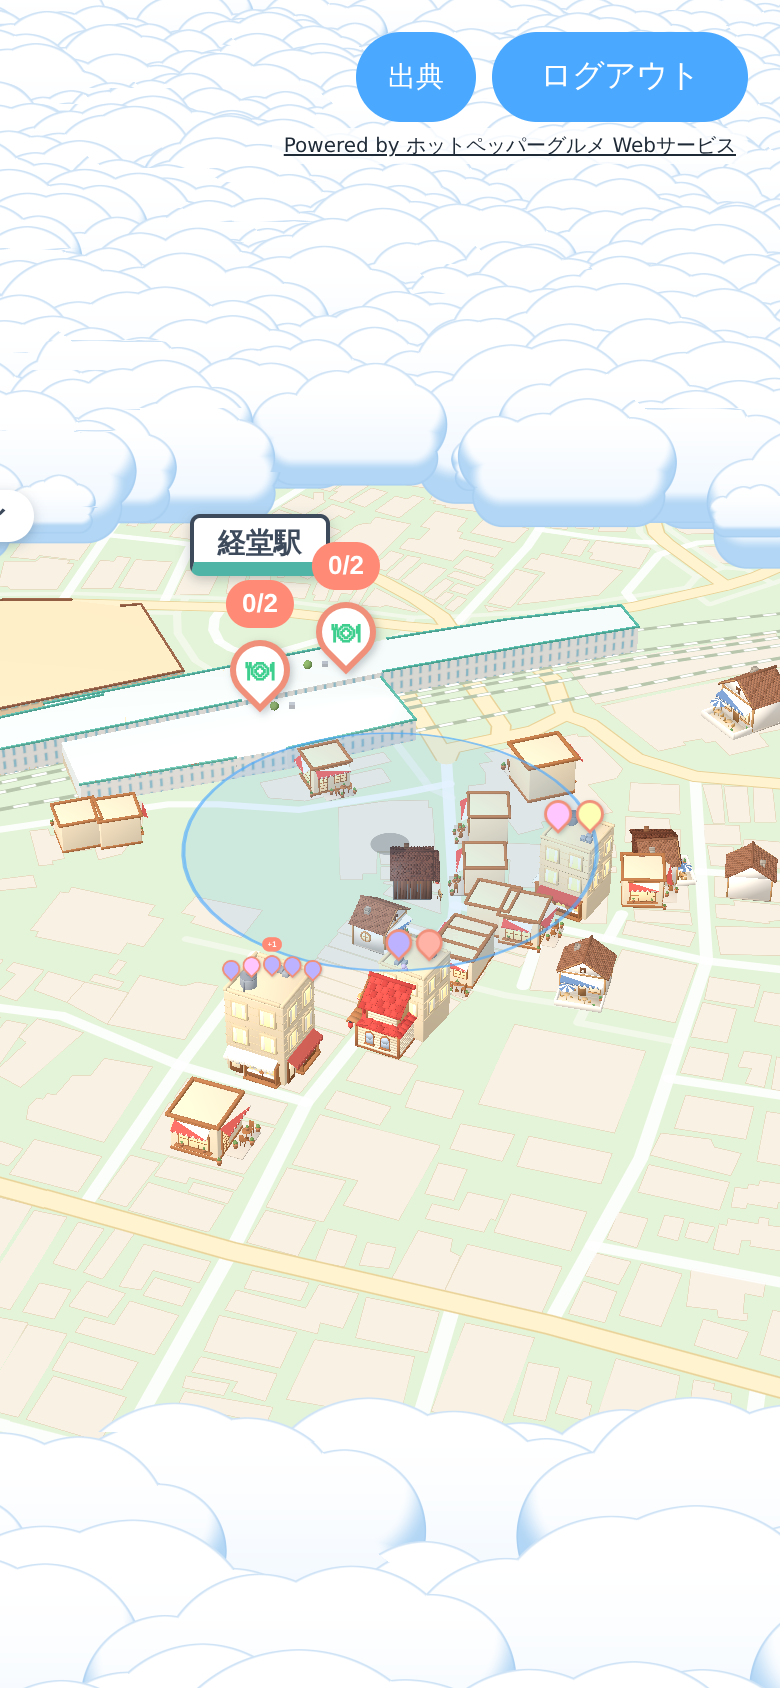
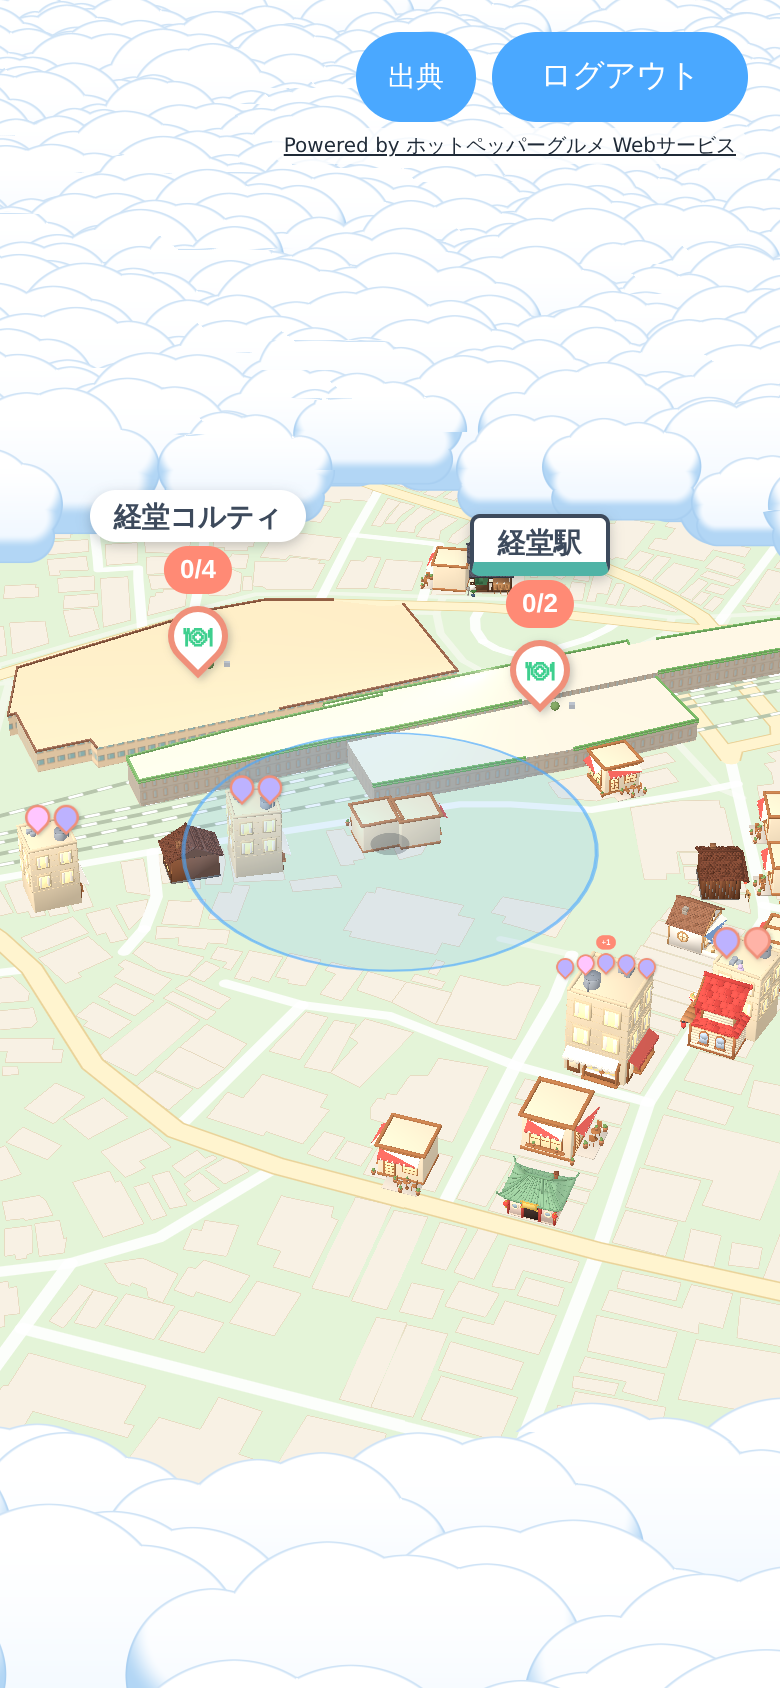
style(shops): station look from Shiro's samples
Claude-Session: https://claude.ai/code/session_01Bp5TxDpu6Cd1eUVq3yDMuP

diff --git a/src/shops/infra/facilityLayer.ts b/src/shops/infra/facilityLayer.ts
@@ -21,10 +21,14 @@ const RED = '#e4745f'
 const BAY_M = 2.5 // 窓1つぶんの横幅
 const RIM_M = 0.5 // 屋根のふちの太さ
 
-// 駅（仮。シロの見本 station-shape が来たら合わせ直す）: 明るいグレーの壁、緑のふち、縦長の窓
-const ST_WALL = '#f4f6f7'
-const ST_ROOF = '#dfe9ee'
-const ST_RIM = '#4fb3a6'
+// 駅（シロの見本 art/reference/shops/station-shape-1〜3）: 明るいグレーの壁、屋根のふちに緑の帯（2段）、
+// 木枠の縦長の窓を等間隔、入口に赤白しまの丸いひさしと丸時計
+const ST_WALL = '#dcd8d1'
+const ST_LEDGE = '#cbc6bd'
+const ST_ROOF = '#ece6da'
+const ST_RIM = '#6faf62'
+const ST_FRAME = '#d39a5c'
+const ST_GLASS = '#bcdfee'
 
 // 窓の帯の絵（1枚 = 横 BAY_M × 縦 1階）。くり返して壁に貼る。駅は縦長の窓
 function wallTexture(station = false): THREE.Texture {
@@ -34,14 +38,23 @@ function wallTexture(station = false): THREE.Texture {
   const g = c.getContext('2d')!
   g.fillStyle = station ? ST_WALL : WALL
   g.fillRect(0, 0, 64, 90)
-  g.fillStyle = station ? '#c9d6dd' : WOOD_L
-  if (station) g.fillRect(22, 14, 20, 62)
-  else g.fillRect(8, 22, 48, 44)
-  g.fillStyle = WINDOW
-  if (station) g.fillRect(25, 17, 14, 56)
-  else g.fillRect(12, 26, 40, 36)
-  g.fillStyle = 'rgba(255,255,255,0.45)'
-  g.fillRect(14, 28, 10, 32)
+  if (station) {
+    g.fillStyle = ST_LEDGE // 階ごとのでっぱり
+    g.fillRect(0, 84, 64, 6)
+    g.fillStyle = ST_FRAME
+    g.fillRect(21, 16, 22, 60)
+    g.fillStyle = ST_GLASS
+    g.fillRect(25, 20, 14, 52)
+    g.fillStyle = 'rgba(255,255,255,0.5)'
+    g.fillRect(27, 22, 4, 46)
+  } else {
+    g.fillStyle = WOOD_L
+    g.fillRect(8, 22, 48, 44)
+    g.fillStyle = WINDOW
+    g.fillRect(12, 26, 40, 36)
+    g.fillStyle = 'rgba(255,255,255,0.45)'
+    g.fillRect(14, 28, 10, 32)
+  }
   const t = new THREE.CanvasTexture(c)
   t.wrapS = THREE.RepeatWrapping
   t.wrapT = THREE.RepeatWrapping
@@ -90,7 +103,7 @@ export function createFacilityLayer(): CustomLayerInterface & {
   let origin: LatLng | null = null
   let objects: THREE.Object3D[] = []
   const geos: THREE.BufferGeometry[] = []
-  type Mats = { wall: THREE.Material; roof: THREE.Material; wood: THREE.Material; awning: THREE.Material; green: THREE.Material; metal: THREE.Material }
+  type Mats = { wall: THREE.Material; roof: THREE.Material; wood: THREE.Material; awning: THREE.Material; green: THREE.Material; metal: THREE.Material; face: THREE.Material; ring: THREE.Material }
   let mats: Mats | null = null
   let stMats: Pick<Mats, 'wall' | 'roof' | 'wood'> | null = null
 
@@ -130,6 +143,13 @@ export function createFacilityLayer(): CustomLayerInterface & {
         box.rotateY(Math.atan2(b.y - a.y, b.x - a.x))
         box.translate((a.x + b.x) / 2, heightM + RIM_M / 2, -(a.y + b.y) / 2)
         rims.push(box)
+        if (f.kind === 'station') {
+          // 駅は緑の帯を2段（見本どおり、少し下にもう1本）
+          const band = new THREE.BoxGeometry(len + RIM_M, RIM_M * 0.6, RIM_M * 1.2)
+          band.rotateY(Math.atan2(b.y - a.y, b.x - a.x))
+          band.translate((a.x + b.x) / 2, heightM - RIM_M * 0.8, -(a.y + b.y) / 2)
+          rims.push(band)
+        }
       }
       if (rims.length) {
         const merged = mergeGeometries(rims)
@@ -140,12 +160,33 @@ export function createFacilityLayer(): CustomLayerInterface & {
       const door = frame.to(f.door)
       const rot = (f.facingDeg * Math.PI) / 180
       const out = { x: Math.sin(rot), y: Math.cos(rot) }
-      const awning = new THREE.BoxGeometry(5, 0.15, 1.6)
-      awning.rotateX(0.35)
-      awning.rotateY(-rot)
-      const c = at({ x: door.x + out.x * 0.8, y: door.y + out.y * 0.8 }, 3.2)
-      awning.translate(c.x, c.y, c.z)
-      add(awning, mats.awning)
+      if (f.kind === 'station') {
+        // 駅: 半円の丸いひさし（赤白しま）と、その上の丸時計。+z（南）向きに作って正面へ回す
+        const turn = Math.atan2(out.x, -out.y)
+        const dome = new THREE.SphereGeometry(2, 16, 8, 0, Math.PI, 0, Math.PI / 2)
+        dome.scale(1, 0.8, 0.9)
+        dome.rotateY(turn)
+        const d = at(door, 3)
+        dome.translate(d.x, d.y, d.z)
+        add(dome, mats.awning)
+        const top = Math.min(f.parts[0].heightM - 1.6, 6)
+        const k = at({ x: door.x + out.x * 0.15, y: door.y + out.y * 0.15 }, top)
+        const face = new THREE.CircleGeometry(1, 24)
+        face.rotateY(turn)
+        face.translate(k.x, k.y, k.z)
+        add(face, mats.face)
+        const ring = new THREE.TorusGeometry(1, 0.18, 8, 24)
+        ring.rotateY(turn)
+        ring.translate(k.x, k.y, k.z)
+        add(ring, mats.ring)
+      } else {
+        const awning = new THREE.BoxGeometry(5, 0.15, 1.6)
+        awning.rotateX(0.35)
+        awning.rotateY(-rot)
+        const c = at({ x: door.x + out.x * 0.8, y: door.y + out.y * 0.8 }, 3.2)
+        awning.translate(c.x, c.y, c.z)
+        add(awning, mats.awning)
+      }
       // 屋根の小物（main の真ん中が輪郭の中なら、植木と室外機）
       const main = f.parts[0]
       const pts = main.ring.map((q) => frame.to(q))
@@ -177,7 +218,7 @@ export function createFacilityLayer(): CustomLayerInterface & {
       wall.map = wallTexture()
       const awning = mat('#ffffff')
       awning.map = stripeTexture()
-      mats = { wall, roof: mat(ROOF), wood: mat(WOOD), awning, green: mat('#7aa45e'), metal: mat('#a9b4c2') }
+      mats = { wall, roof: mat(ROOF), wood: mat(WOOD), awning, green: mat('#7aa45e'), metal: mat('#a9b4c2'), face: mat('#fffdf7'), ring: mat(WOOD) }
       const stWall = mat(ST_WALL)
       stWall.map = wallTexture(true)
       stMats = { wall: stWall, roof: mat(ST_ROOF), wood: mat(ST_RIM) }

diff --git a/src/checkin/ui/checkin.css b/src/checkin/ui/checkin.css
@@ -302,5 +302,5 @@
   border: 2px solid #3d4a5c;
   border-radius: 5px;
   padding: 2px 12px 0;
-  border-bottom: 7px solid #4fb3a6;
+  border-bottom: 7px solid #6faf62;
 }

diff --git a/handoff/LOG.md b/handoff/LOG.md
@@ -27,3 +27,4 @@
 
 - 2026-11-07 シロ: 駅の立体の見本3枚を納品（オーナー承認済み）。細長い駅／大きい駅／L字の駅。共通の決まりは明るいグレーの壁＋屋根のふちの緑の帯＋縦長の窓＋丸時計＋駅名標の形（文字なし）。画像本体はセッション経由で送付、配置先は依頼ファイルの納品メモに記載。依頼は完了に更新。
 - 2026-11-07 Claude Code: 駅の立体の見本3枚を配置（art/reference/shops/station-shape-1〜3.webp。チャット経由で webp で届いたので拡張子は .webp）。アプリの駅の見た目に反映する。
+- 2026-11-07 Claude Code: シロの駅の見本（station-shape-1〜3）をアプリの駅の見た目に反映（グレーの壁・緑の帯2段・木枠の縦長の窓・赤白の丸いひさし・丸時計）。dev に反映。
